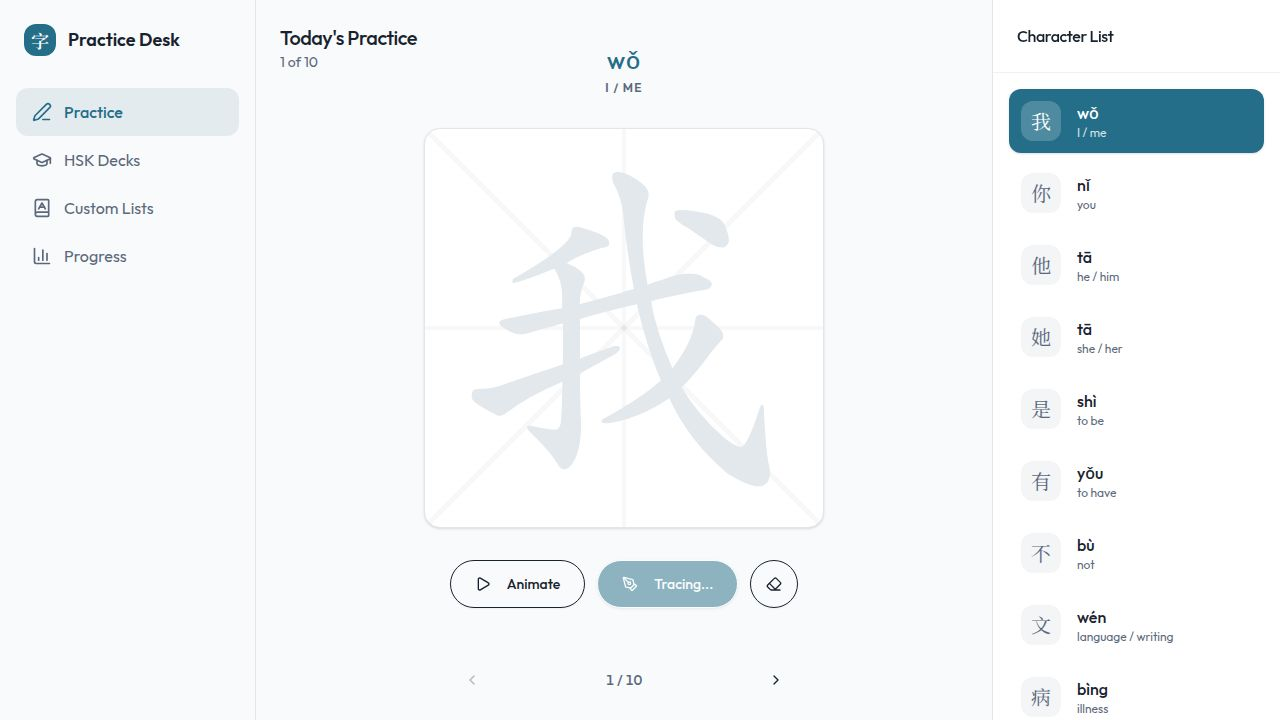
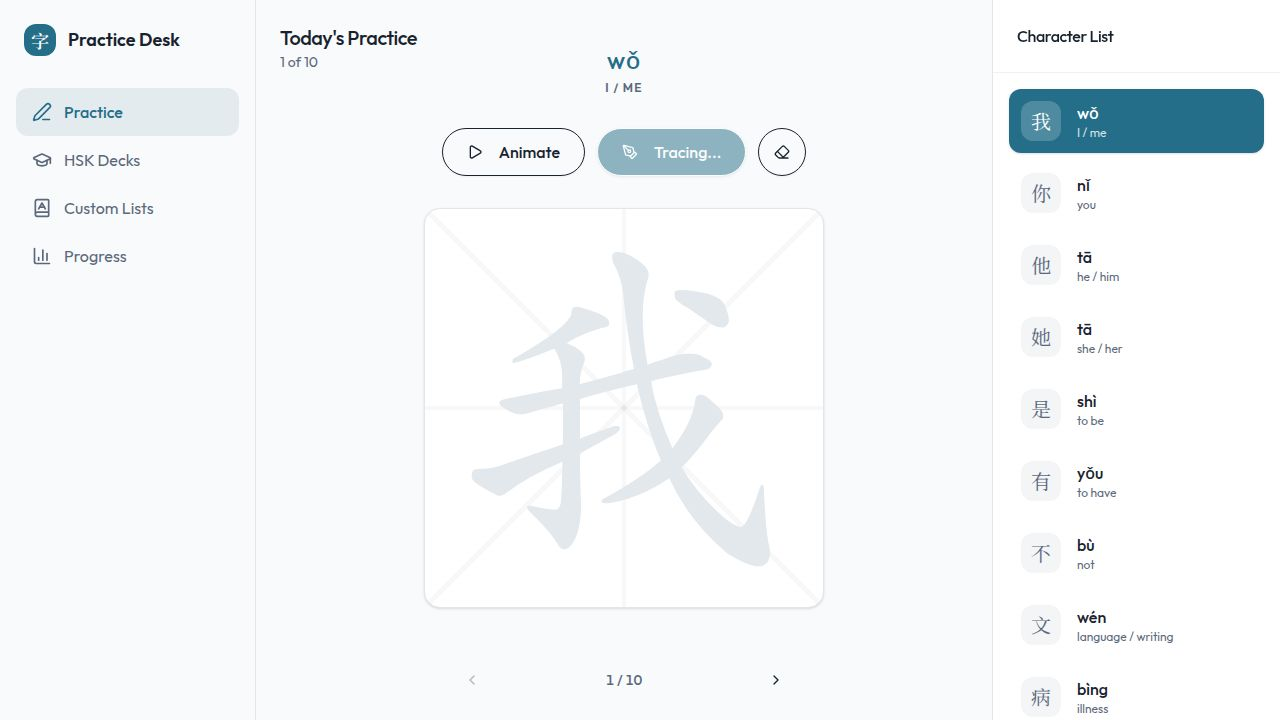
Rearrange practice controls to improve mobile usability
Reordered elements in `PracticeGrid.tsx` to place action buttons above the character grid, enhancing mobile navigation by preventing overlap with the bottom tab bar.

Replit-Commit-Author: Agent
Replit-Commit-Session-Id: 52056757-8587-4e82-80bf-c7a9bd98087d
Replit-Commit-Checkpoint-Type: full_checkpoint
Replit-Commit-Event-Id: b254ba8b-2b64-46bb-a6e9-2d75eac69b0d
Replit-Commit-Screenshot-Url: https://storage.googleapis.com/screenshot-production-us-central1/128a4ca2-cbc8-4d8c-b19c-f9e5020759f8/52056757-8587-4e82-80bf-c7a9bd98087d/zuS8kgI
Replit-Helium-Checkpoint-Created: true

diff --git a/artifacts/hanzi-practice-desk/src/components/PracticeGrid.tsx b/artifacts/hanzi-practice-desk/src/components/PracticeGrid.tsx
@@ -150,7 +150,40 @@ export function PracticeGrid({ character, onQuizComplete, size = 300, autoStart 
   };
 
   return (
-    <div className="flex flex-col items-center gap-8 w-full max-w-md mx-auto">
+    <div className="flex flex-col items-center gap-4 md:gap-8 w-full max-w-md mx-auto">
+      <div className="flex flex-wrap justify-center gap-2 md:gap-3">
+        <Button 
+          variant="outline" 
+          size="lg" 
+          onClick={handleAnimate}
+          className="rounded-full px-4 md:px-6 h-10 md:h-12 text-sm md:text-base"
+          disabled={!isReady}
+        >
+          <Play className="w-4 h-4 mr-1.5 md:mr-2" />
+          Animate
+        </Button>
+        <Button 
+          variant="default" 
+          size="lg" 
+          onClick={handleQuiz}
+          className="rounded-full px-4 md:px-6 h-10 md:h-12 text-sm md:text-base bg-primary hover:bg-primary/90 text-primary-foreground shadow-sm"
+          disabled={!isReady || mode === "quiz"}
+        >
+          <PenTool className="w-4 h-4 mr-1.5 md:mr-2" />
+          {mode === "quiz" ? "Tracing..." : "Practice"}
+        </Button>
+        <Button 
+          variant="outline" 
+          size="lg"
+          onClick={handleClear}
+          className="rounded-full w-10 h-10 md:w-12 md:h-12 p-0"
+          title="Clear"
+          disabled={!isReady}
+        >
+          <Eraser className="w-4 h-4 md:w-5 md:h-5" />
+        </Button>
+      </div>
+
       <div 
         className="relative bg-white rounded-2xl shadow-sm border border-border overflow-hidden touch-none-all group"
         style={{ width: size, height: size }}
@@ -163,39 +196,6 @@ export function PracticeGrid({ character, onQuizComplete, size = 300, autoStart 
             <Loader2 className="w-8 h-8 animate-spin text-primary" />
           </div>
         )}
-      </div>
-
-      <div className="flex flex-wrap justify-center gap-3 pb-6 md:pb-0">
-        <Button 
-          variant="outline" 
-          size="lg" 
-          onClick={handleAnimate}
-          className="rounded-full px-6 h-12"
-          disabled={!isReady}
-        >
-          <Play className="w-4 h-4 mr-2" />
-          Animate
-        </Button>
-        <Button 
-          variant="default" 
-          size="lg" 
-          onClick={handleQuiz}
-          className="rounded-full px-6 h-12 bg-primary hover:bg-primary/90 text-primary-foreground shadow-sm"
-          disabled={!isReady || mode === "quiz"}
-        >
-          <PenTool className="w-4 h-4 mr-2" />
-          {mode === "quiz" ? "Tracing..." : "Practice"}
-        </Button>
-        <Button 
-          variant="outline" 
-          size="lg"
-          onClick={handleClear}
-          className="rounded-full w-12 h-12 p-0"
-          title="Clear"
-          disabled={!isReady}
-        >
-          <Eraser className="w-5 h-5" />
-        </Button>
       </div>
     </div>
   );